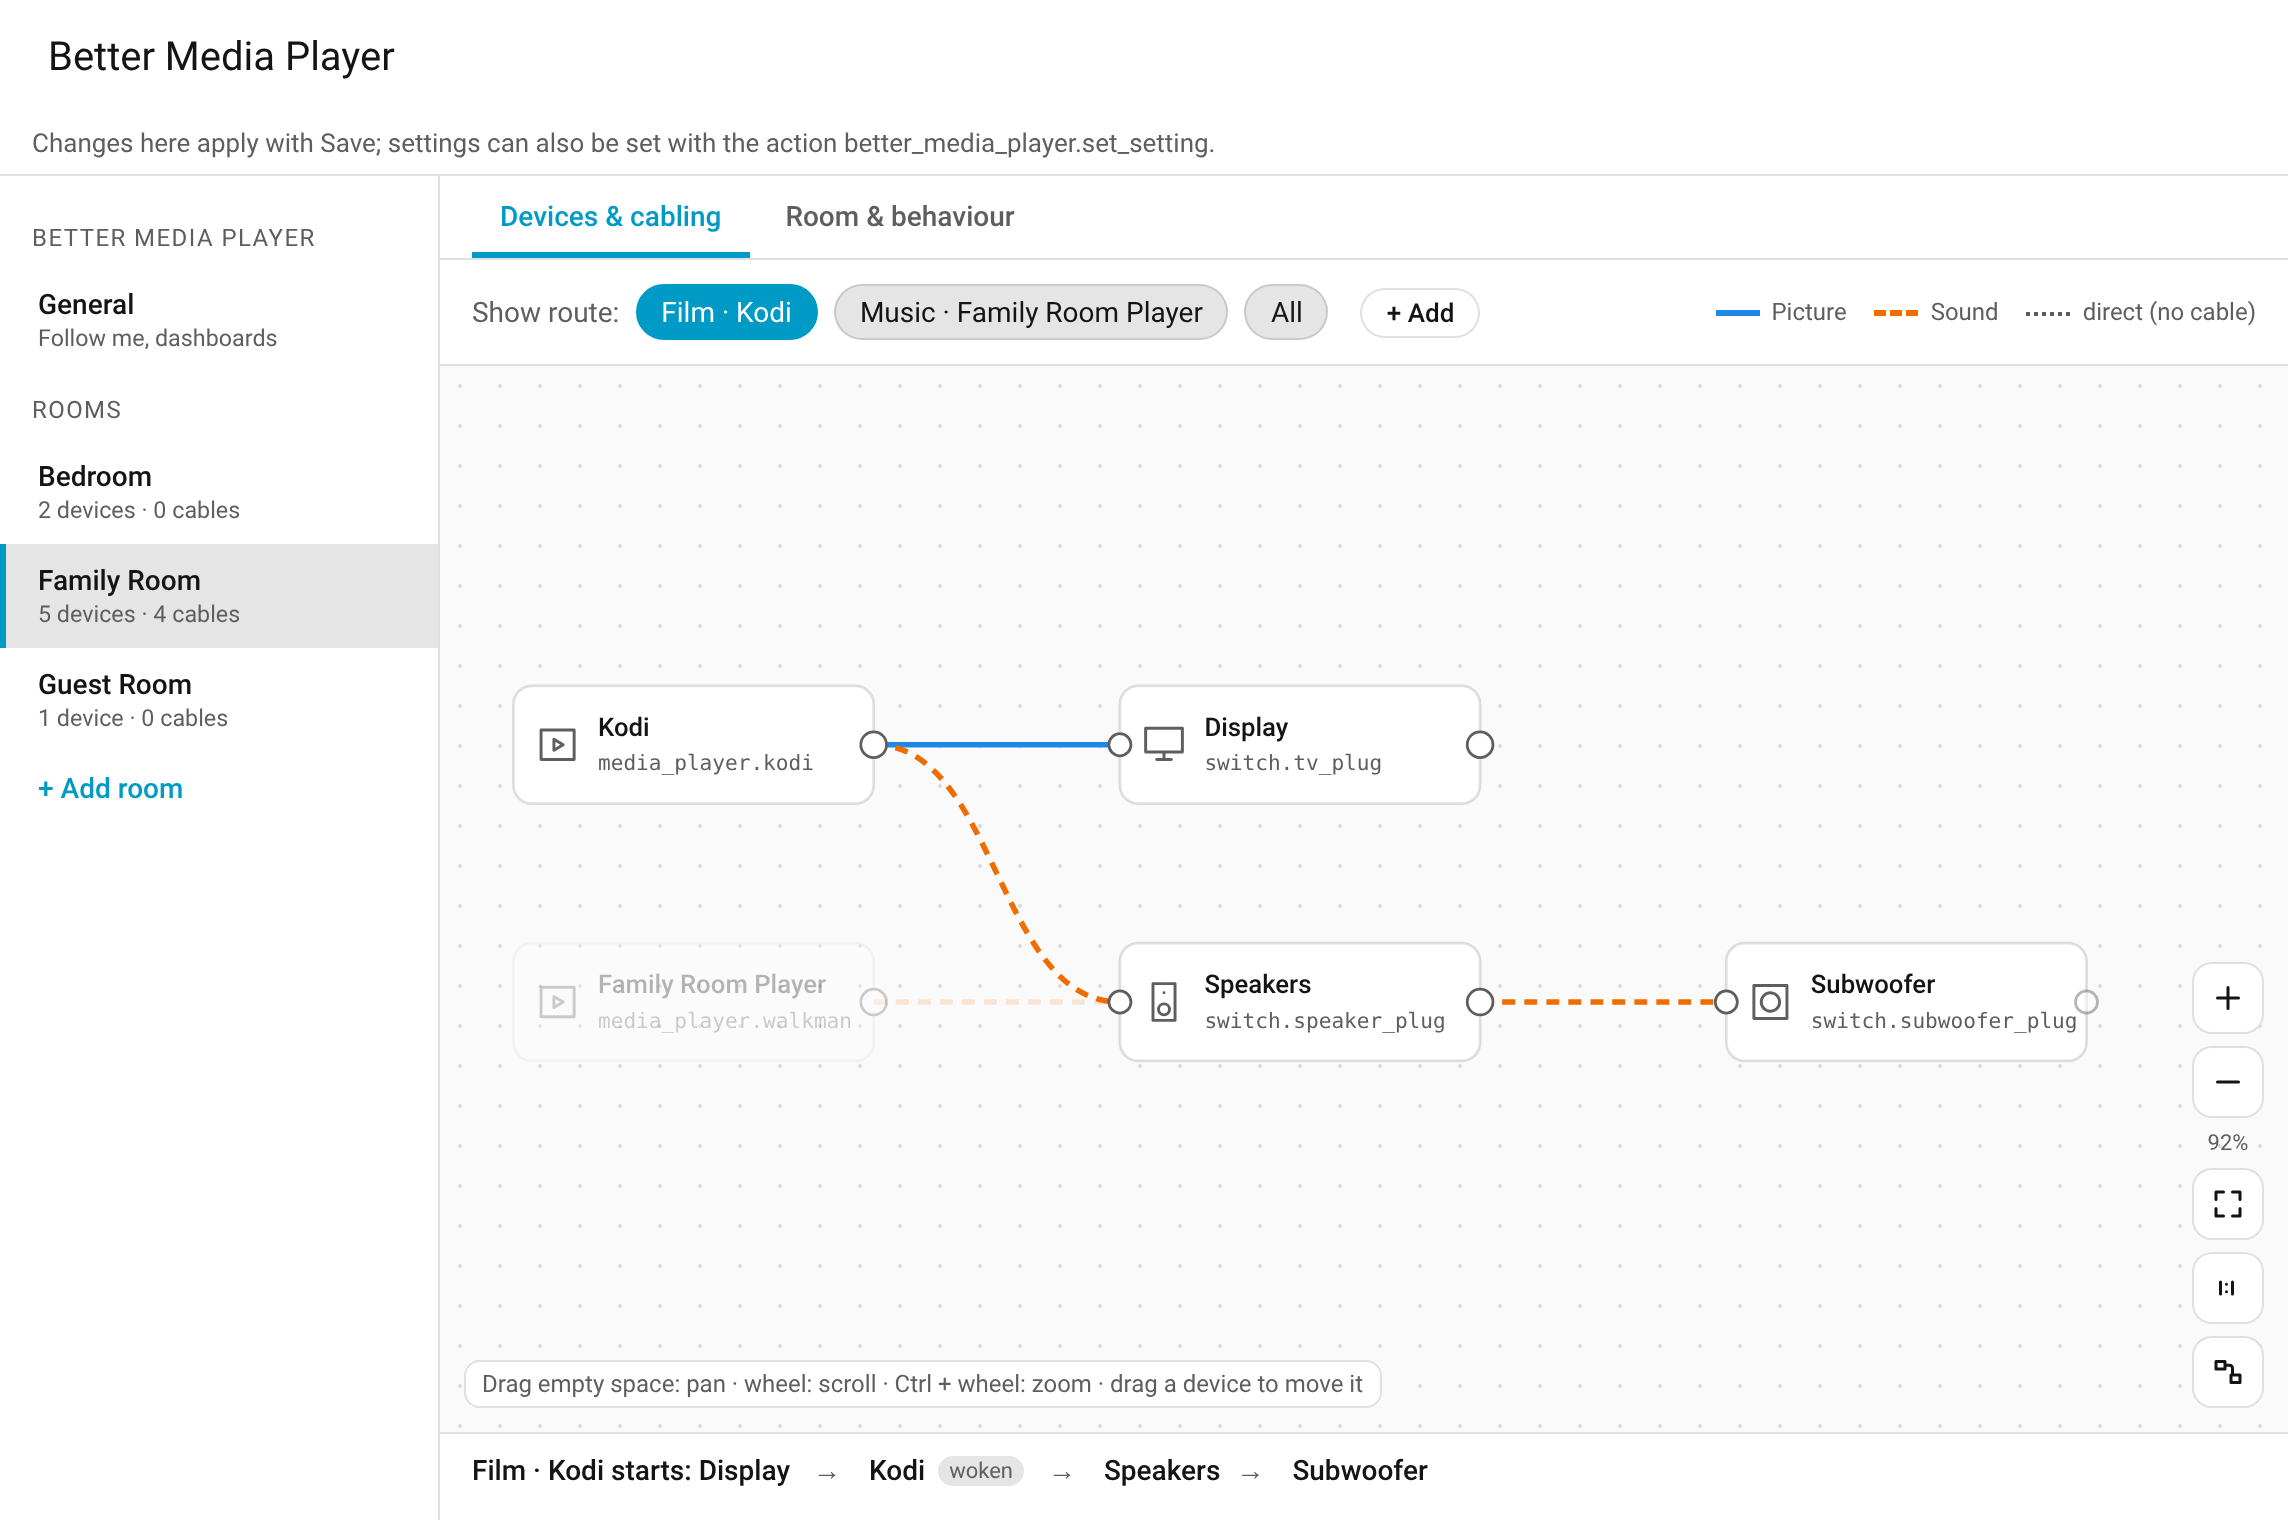
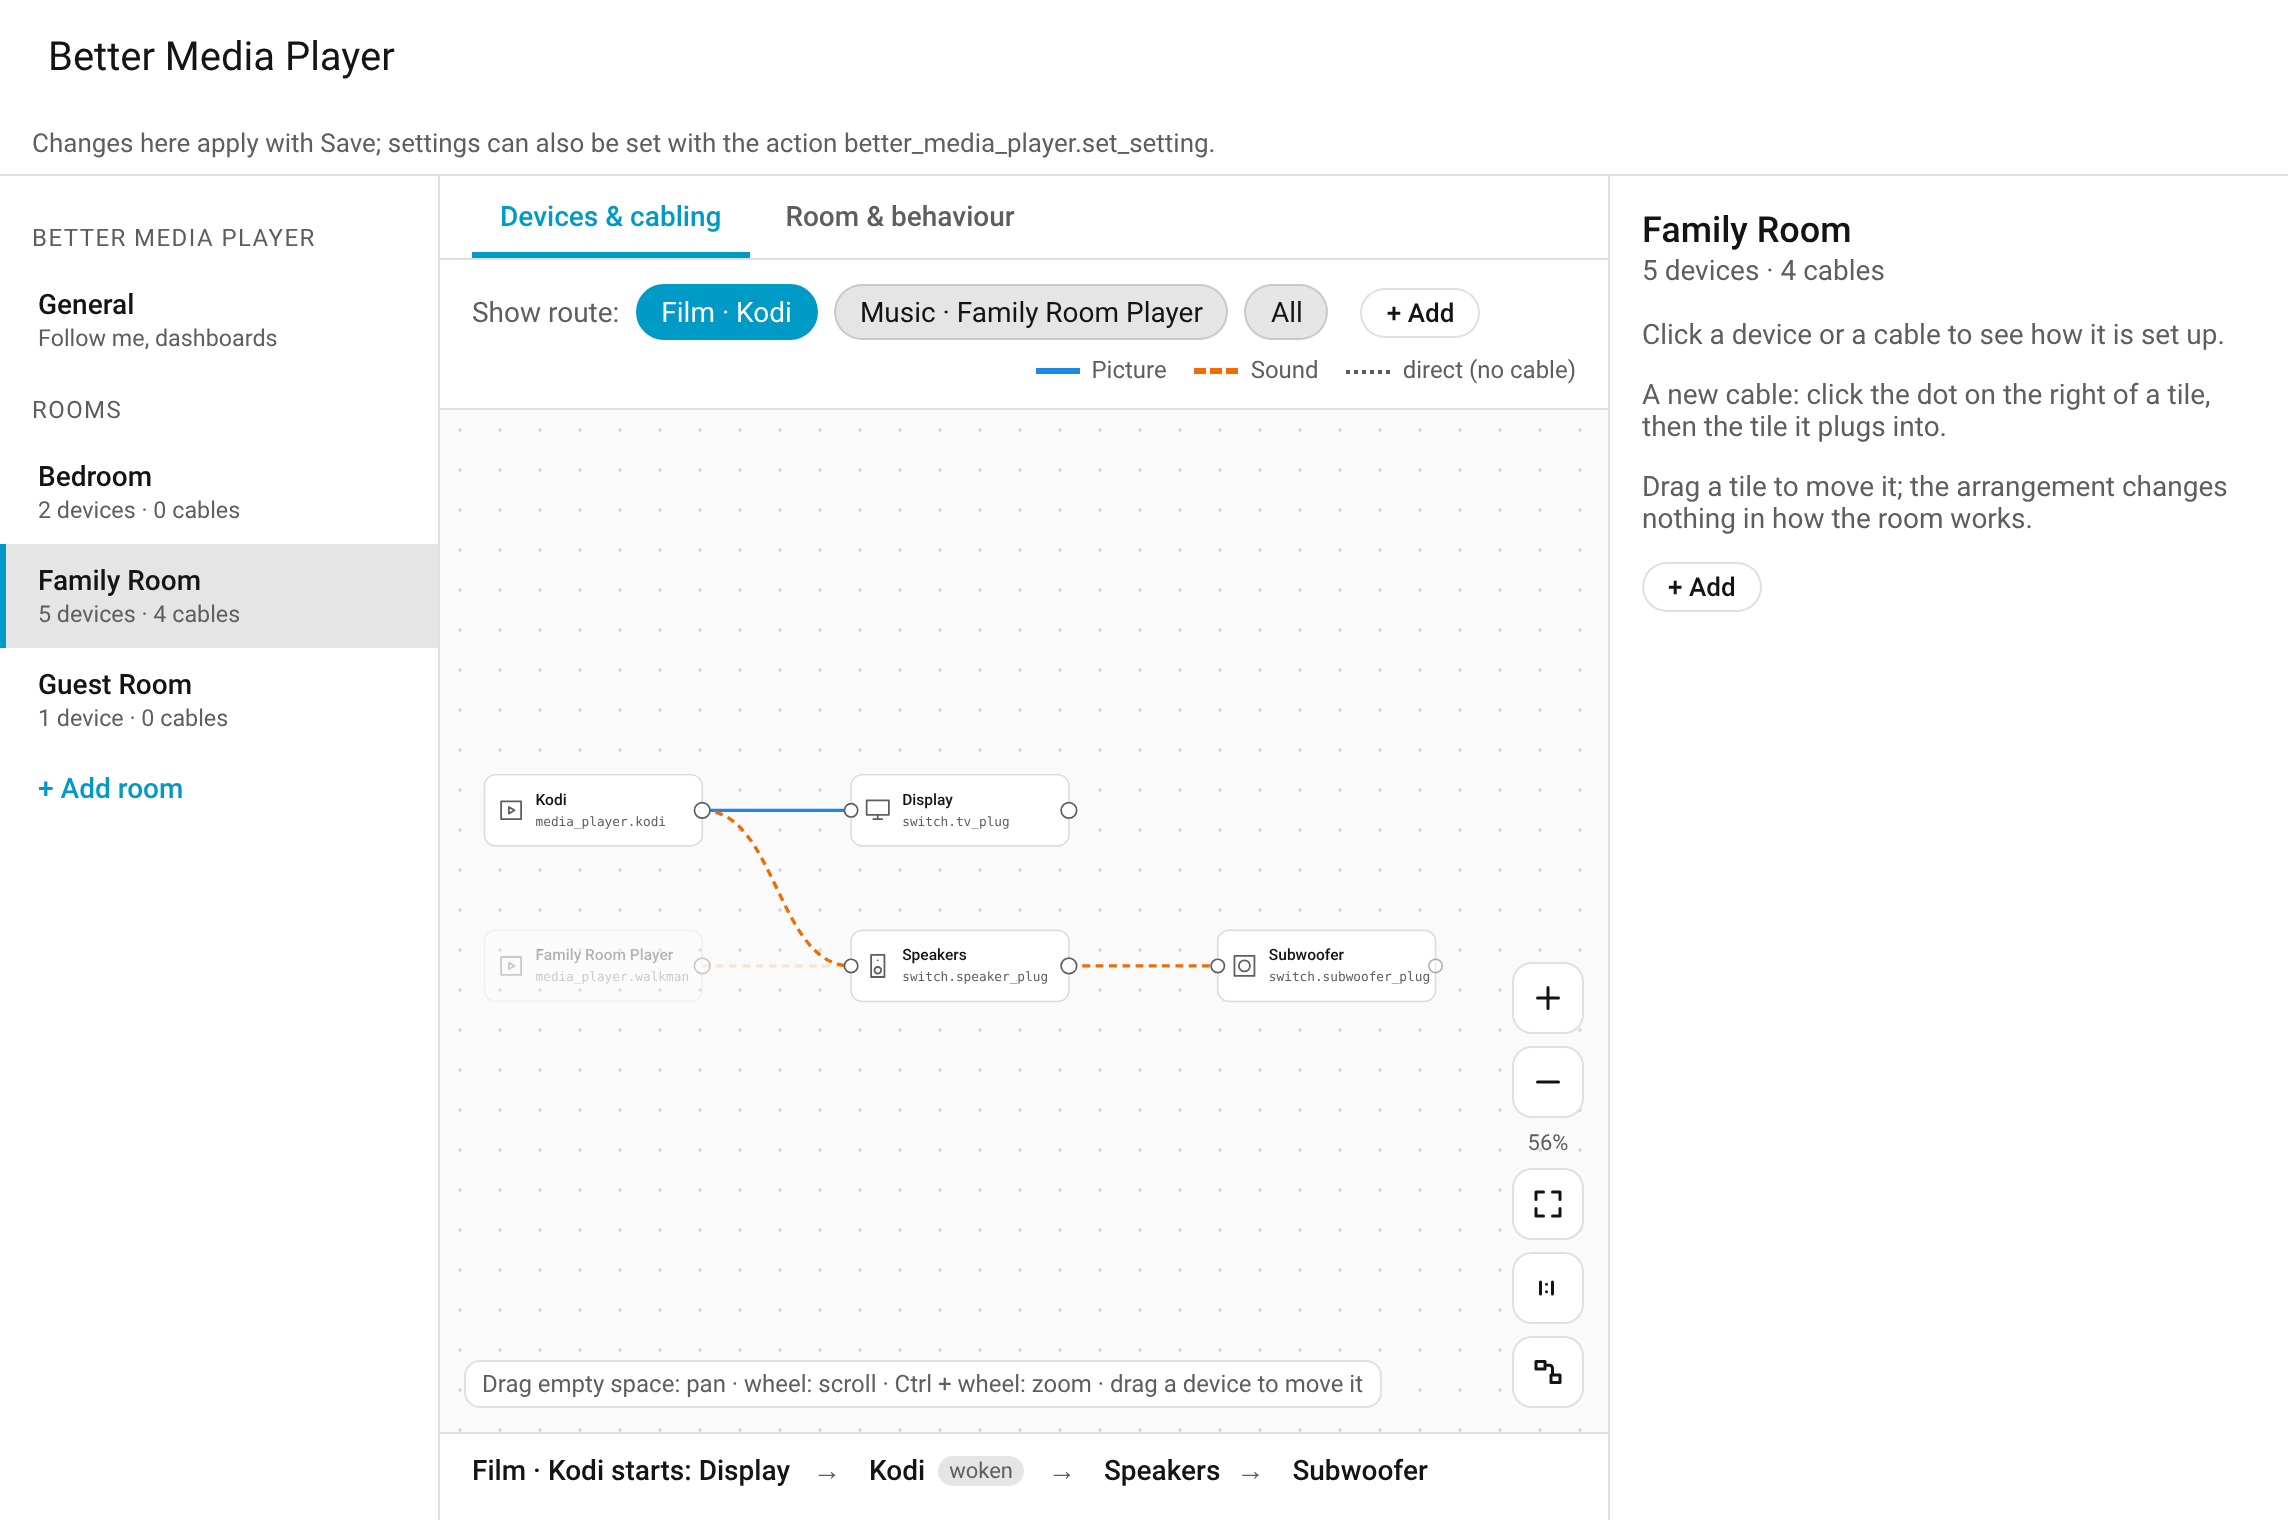
Panel: room overview; take over the dotted lines as cables
With nothing picked, the right side shows the room at a glance instead
of closing. A room without cables (as one from v1.2.0 is taken over)
explains the dotted lines there and offers to take them over as cables:
the room works the same, and the cabling can be changed from there.
The cables are an unsaved change until Save.

Claude-Session: https://claude.ai/code/session_01Mgztzm6dmHdgQHQYnCgpdp

diff --git a/custom_components/better_media_player/frontend/bmp-panel.js b/custom_components/better_media_player/frontend/bmp-panel.js
@@ -6,8 +6,8 @@
 import { LitElement, html, svg, css, nothing } from "./vendor/lit.js";
 import { translator } from "./i18n.js";
 import { W, H, PASSIVE, SINKS, nodesOf, arrange, unstack, curve, labelSpot, bounds, iconPath } from "./diagram.js";
-import { DEVICE_KINDS, SOURCE_KINDS, addCable, addDevice, addSource, canConnect, draftOf, newRoom, payload, same } from "./editor.js";
-import { renderInspector } from "./inspector.js";
+import { DEVICE_KINDS, SOURCE_KINDS, addCable, addDevice, addSource, canConnect, directToCables, draftOf, newRoom, payload, same } from "./editor.js";
+import { renderInspector, renderOverview } from "./inspector.js";
 import { renderCentral, renderSettings } from "./settings.js";
 
 const PANEL_URL = "better-media-player";
@@ -273,7 +273,7 @@ class BmpPanel extends LitElement {
         </header>
         ${this._renderSaveBar()}
         ${this._notice ? html`<div class="notice" role="alert">${this._notice}<button class="chip" @click=${() => { this._notice = null; }}>${t("dismiss")}</button></div>` : html`<div></div>`}
-        <div class="main ${this._page === "room" && this._tab === "wiring" && this._selected ? "details" : ""}">
+        <div class="main ${this._page === "room" && this._tab === "wiring" ? "details" : ""}">
           ${this._renderNav()}
           ${this._page === "central"
             ? html`<section class="stage"><div class="page">${renderCentral(this)}</div></section>`
@@ -350,9 +350,9 @@ class BmpPanel extends LitElement {
           ? html`<div class="page">${renderSettings(this, room)}</div>`
           : html`${this._renderSources(room)}${this._renderProblems(room)}${this._renderDiagram(room)}${this._renderRoute(room)}`}
       </section>
-      ${this._tab === "wiring" && this._selected ? html`<section class="inspector">
-        <button class="close" title=${t("close")} aria-label=${t("close")} @click=${() => { this._selected = null; }}>×</button>
-        ${renderInspector(this, room)}</section>` : nothing}
+      ${this._tab === "wiring" ? html`<section class="inspector">
+        ${this._selected ? html`<button class="close" title=${t("close")} aria-label=${t("close")} @click=${() => { this._selected = null; }}>×</button>` : nothing}
+        ${this._selected ? renderInspector(this, room) : renderOverview(this, room)}</section>` : nothing}
     `;
   }
 
@@ -475,7 +475,7 @@ class BmpPanel extends LitElement {
     const src = room.sources.find((s) => s.id === this._source);
     if (this._armed) return html`<div class="route">${t("cable.armed")}</div>`;
     if (!src || !room.routes?.[src.id])
-      return html`<div class="route">${!room.cables.length && room.devices.length ? html`${t("insp.migrated")} ` : nothing}${t("route.pick")} ${t("insp.click")}</div>`;
+      return html`<div class="route">${t("route.pick")}</div>`;
     const r = room.routes[src.id];
     const devices = (r.order || []).map((id) => room.devices.find((d) => d.id === id)).filter(Boolean);
     const name = (d) => d.name || t(`kind.${d.kind}`);
@@ -807,6 +807,12 @@ class BmpPanel extends LitElement {
     }
   }
 
+  // the dotted lines as cables (an unsaved change), then everything placed anew
+  _takeOver(room) {
+    this._change(room, () => directToCables(room));
+    this._rearrange(room);
+  }
+
   async _rearrange(room) {
     for (const n of this._tiles(room)) n.placed = false;
     room.layout = {};
@@ -957,6 +963,9 @@ class BmpPanel extends LitElement {
     .clabel text { font-size: 11.5px; font-family: var(--code-font-family, ui-monospace, monospace); fill: var(--bmp-text); }
     .clabel.cec rect { stroke: var(--bmp-cec); }
     .clabel.dim { opacity: .2; }
+    .takeover { border: 1px solid color-mix(in srgb, var(--bmp-primary) 45%, var(--bmp-line)); background: color-mix(in srgb, var(--bmp-primary) 8%, var(--bmp-card)); border-radius: 10px; padding: 12px 14px; margin-bottom: 16px; display: grid; gap: 8px; }
+    .takeover p { margin: 0; font-size: 13px; }
+    .takeover .btn { justify-self: start; }
     .inspector h2 { font-size: 18px; font-weight: 500; margin: 0 0 2px; padding-right: 32px; }
     .kind { color: var(--bmp-muted); margin-bottom: 16px; }
     .field { display: grid; gap: 6px; margin-bottom: 14px; }

diff --git a/custom_components/better_media_player/frontend/inspector.js b/custom_components/better_media_player/frontend/inspector.js
@@ -23,6 +23,28 @@ export function renderInspector(p, d) {
   return dev ? device(p, d, dev) : nothing;
 }
 
+// nothing picked: the room at a glance; without cables, how it works now and taking that over
+export function renderOverview(p, d) {
+  const t = p._t;
+  const direct = !d.cables.length && d.devices.length && d.sources.some((s) => d.routes?.[s.id]?.direct?.length);
+  const moved = d.devices.find((x) => x.volume_migrated);
+  return html`
+    ${direct ? html`<div class="takeover">
+      <b>${t("over.title")}</b>
+      <p>${t("over.text")}</p>
+      <p>${t("over.passive")}</p>
+      ${moved ? html`<p>${t("over.volume", { entity: moved.volume, device: moved.name || t(`kind.${moved.kind}`) })}</p>` : nothing}
+      <button class="btn primary small" @click=${() => p._takeOver(d)}>${t("over.button")}</button>
+      <small class="muted">${t("over.after")}</small>
+    </div>` : nothing}
+    <h2>${d.name}</h2>
+    <div class="kind">${t("nav.room_sub", p._counts(d))}</div>
+    <p class="muted">${t("insp.click")}</p>
+    <p class="muted">${t("over.cable")}</p>
+    <p class="muted">${t("over.move")}</p>
+    <button class="btn small" @click=${() => { p._dialog = { type: "add" }; }}>+ ${t("add.button")}</button>`;
+}
+
 function problemsOf(p, d, id) {
   const own = (d.problems || []).filter((x) => x.device === id || x.source === id);
   return own.length ? html`<div class="problems">${own.map((x) => html`<div class=${x.error ? "err" : ""}>${p._problemText(x)}</div>`)}</div>` : nothing;

diff --git a/custom_components/better_media_player/frontend/editor.js b/custom_components/better_media_player/frontend/editor.js
@@ -232,6 +232,21 @@ export function addCable(d, from, to) {
   return d.cables.length - 1;
 }
 
+// the dotted lines (players feeding devices no cable reaches) as cables, so the room keeps
+// working as it does and the cabling can be changed from there; returns how many were added
+export function directToCables(d) {
+  let added = 0;
+  for (const s of d.sources) {
+    for (const to of d.routes?.[s.id]?.direct || []) {
+      const signals = defaultSignals(d, s.id, to);
+      const c = d.cables.find((x) => x.from === s.id && x.to === to);
+      if (c) c.signals = [...new Set([...c.signals, ...signals])].sort();
+      else { d.cables.push({ from: s.id, to, signals, input: null, mode: "bmp" }); added++; }
+    }
+  }
+  return added;
+}
+
 // a passive device put into a cable (the cable is split in two)
 export function insertInto(d, index, kind, defaults) {
   const c = d.cables[index];

diff --git a/docs/designer.md b/docs/designer.md
@@ -28,6 +28,7 @@ Tested on a local Home Assistant 2026.10 with the demo integration (simulated de
 - **Tiles:** the room's players on the left, its devices to the right of what feeds them. A device switched by HDMI-CEC carries a *CEC* mark, the one the room's volume is set on *Room volume*. Each tile shows the plug or device that powers it; a passive one (mixer, splitter, passive speakers) has a dashed frame.
 - **Cables:** what the room's [cabling](devices.md) describes. Picture is blue, sound orange and dashed; an input to choose is written on the cable (*· CEC* when HDMI-CEC chooses it).
 - **Dotted lines:** a device no cable reaches is fed directly, as in a room without cabling – a display gets the picture, speakers, subwoofer, receiver and amplifier get the sound.
+- **A room without cables** (as one set up with v1.2.0 is taken over) works through these dotted lines. *Take over the dotted lines as cables* (on the right, with nothing picked) turns them into cables – the room works the same – so the cabling can be changed from there: a mixer or splitter in between, inputs to choose. It is an unsaved change until Save.
 - **Show route:** pick a player to highlight what it needs when it starts; below the drawing, the order in which the devices come on and the inputs they are switched to. *All* shows every cable.
 - **Problems** of the room are listed above the drawing; a tile with an error has a red frame.
 
@@ -35,7 +36,7 @@ Tested on a local Home Assistant 2026.10 with the demo integration (simulated de
 
 - **+ Add** (above the drawing): a player (video or music; at most one each, a player of the room's area is proposed) or a device: display, AV receiver / soundbar, amplifier, speakers, subwoofer, HDMI switch, mixer, splitter, passive speakers.
 - **A cable:** click the right dot of a tile, then the tile it plugs into (Esc cancels). What it carries is proposed from the two ends.
-- **Details:** click a tile or a cable, and they open on the right (× closes them). Entities and the area are picked with Home Assistant's own selector (search by name, area or ID; only entities that fit the field are offered).
+- **Details:** click a tile or a cable, and they open on the right (× goes back to the room's overview there). Entities and the area are picked with Home Assistant's own selector (search by name, area or ID; only entities that fit the field are offered).
 
 | Details of | What you set |
 |---|---|

diff --git a/README.md b/README.md
@@ -42,7 +42,7 @@ It is a custom integration in the spirit of Better Thermostat: you tell it what 
 
 A page of its own in Home Assistant's sidebar, where the rooms are set up: every room as a drawing – its players, its devices, how they are cabled, and what each player needs when it starts – with the details of each device and the room's settings, checked before they are saved. [More about the panel](https://github.com/financelurker/ha-better-media-player/blob/main/docs/designer.md).
 
-![The panel: a room's devices and cables, the film's route highlighted](https://raw.githubusercontent.com/financelurker/ha-better-media-player/main/docs/images/panel.png?v=83674e8877)
+![The panel: a room's devices and cables, the film's route highlighted](https://raw.githubusercontent.com/financelurker/ha-better-media-player/main/docs/images/panel.png?v=6191ac8c1c)
 
 ## Is it for you?
 
